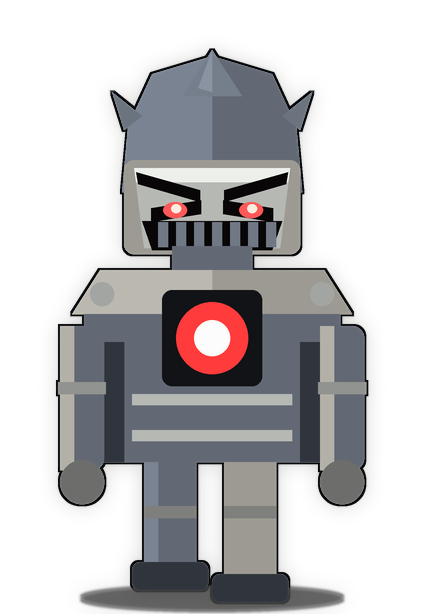
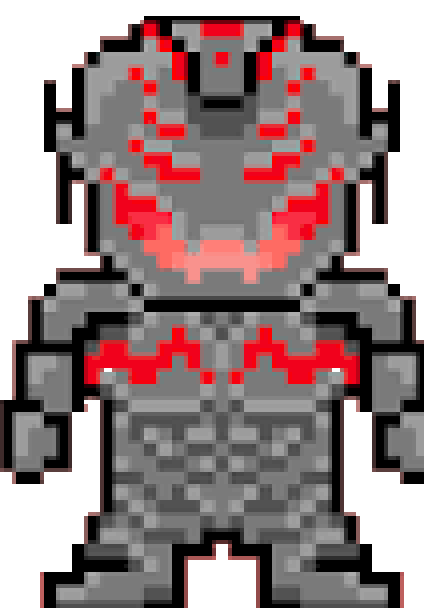
In-game Ultron now matches the pixel reference art
Rebuild ultron_work / ultron_walk_a / ultron_walk_b from pixel ultron referance.png
(pink background flood-filled to transparent, crisp NEAREST upscale, anchored to the
existing sprite canvases so he still sits behind his desk / walks correctly). The
office Ultron and his walk cycle now read as the grey, red-eyed, horned reference
figure. Generator kept at dev-tools/ultron_from_reference.py.

diff --git a/dev-tools/ultron_from_reference.py b/dev-tools/ultron_from_reference.py
@@ -1,0 +1,91 @@
+#!/usr/bin/env python3
+"""Rebuild Ultron's in-game sprites so he looks exactly like the pixel reference
+art (pixel ultron referance.png). Pink background -> transparent, crisp NEAREST
+upscale, anchored to match the existing sprite canvases so the draw code keeps
+placing him correctly behind his desk / on the floor.
+
+  ultron_work.png   424x494  head+chest bust (desk hides the rest)
+  ultron_walk_a.png 424x614  full body
+  ultron_walk_b.png 424x614  full body, bobbed for a 2-frame step
+"""
+import os
+from PIL import Image
+
+HERE = os.path.dirname(os.path.abspath(__file__))
+ASSETS = os.path.normpath(os.path.join(HERE, "..", "pixel-assets"))
+SRC = r"C:\Ultron Project\pixel ultron referance.png"
+PINK = (254, 165, 161)
+
+def load_figure():
+    im = Image.open(SRC).convert("RGBA")
+    w, h = im.size
+    px = im.load()
+
+    def pinkish(p):
+        r, g, b = p[0], p[1], p[2]
+        # pink field (incl. its darker shaded salmon) is warm with g,b both fairly
+        # high; the red accents are r-high but g,b LOW (~40), so they're excluded.
+        return r > 195 and g > 100 and b > 95 and abs(r - g) < 115 and (r - b) < 135
+
+    # flood fill the connected background from every border pixel -> transparent.
+    # interior reds aren't border-connected through pink, so they're preserved.
+    from collections import deque
+    seen = [[False] * w for _ in range(h)]
+    q = deque()
+    for x in range(w):
+        for y in (0, h - 1):
+            q.append((x, y))
+    for y in range(h):
+        for x in (0, w - 1):
+            q.append((x, y))
+    while q:
+        x, y = q.popleft()
+        if x < 0 or y < 0 or x >= w or y >= h or seen[y][x]:
+            continue
+        seen[y][x] = True
+        p = px[x, y]
+        if p[3] == 0 or pinkish(p):
+            px[x, y] = (0, 0, 0, 0)
+            q.extend([(x + 1, y), (x - 1, y), (x, y + 1), (x, y - 1)])
+    # second pass: kill any pink pockets trapped in the LOWER body (e.g. between
+    # the legs) that the border fill couldn't reach. Restricted below the head so
+    # the red under-eye glow up top is never touched.
+    for y in range(int(h * 0.5), h):
+        for x in range(w):
+            if pinkish(px[x, y]):
+                px[x, y] = (0, 0, 0, 0)
+    return im.crop(im.getbbox())   # tight crop to the figure
+
+def fit(fig, cw, ch, frac_h, anchor_bottom_pad):
+    """Scale fig (NEAREST) so its height = ch*frac_h, center horizontally,
+    sit its feet anchor_bottom_pad px above the canvas bottom."""
+    fw, fh = fig.size
+    target_h = int(ch * frac_h)
+    scale = max(1, round(target_h / fh))
+    # prefer integer scale for crisp pixels; fall back to exact if too big/small
+    sc = fig.resize((fw * scale, fh * scale), Image.NEAREST)
+    if sc.size[1] > ch - 4 or sc.size[1] < target_h * 0.7:
+        sc = fig.resize((max(1, int(fw * target_h / fh)), target_h), Image.NEAREST)
+    canvas = Image.new("RGBA", (cw, ch), (0, 0, 0, 0))
+    x = (cw - sc.size[0]) // 2
+    y = ch - sc.size[1] - anchor_bottom_pad
+    canvas.alpha_composite(sc, (max(0, x), max(0, y)))
+    return canvas
+
+def main():
+    fig = load_figure()
+    fw, fh = fig.size
+    # bust = top ~62% of the figure (head + chest), for the seated 'work' sprite
+    bust = fig.crop((0, 0, fw, int(fh * 0.62)))
+    work = fit(bust, 424, 494, 0.98, 6)
+    work.save(os.path.join(ASSETS, "ultron_work.png"))
+    walk_a = fit(fig, 424, 614, 0.97, 6)
+    walk_a.save(os.path.join(ASSETS, "ultron_walk_a.png"))
+    # walk_b: same figure lifted a few px for a simple 2-frame bob-step
+    wb = Image.new("RGBA", (424, 614), (0, 0, 0, 0))
+    wb.alpha_composite(walk_a, (0, -7))
+    wb.save(os.path.join(ASSETS, "ultron_walk_b.png"))
+    print("wrote ultron_work.png, ultron_walk_a.png, ultron_walk_b.png from reference (figure %dx%d)" % (fw, fh))
+
+if __name__ == "__main__":
+    main()
